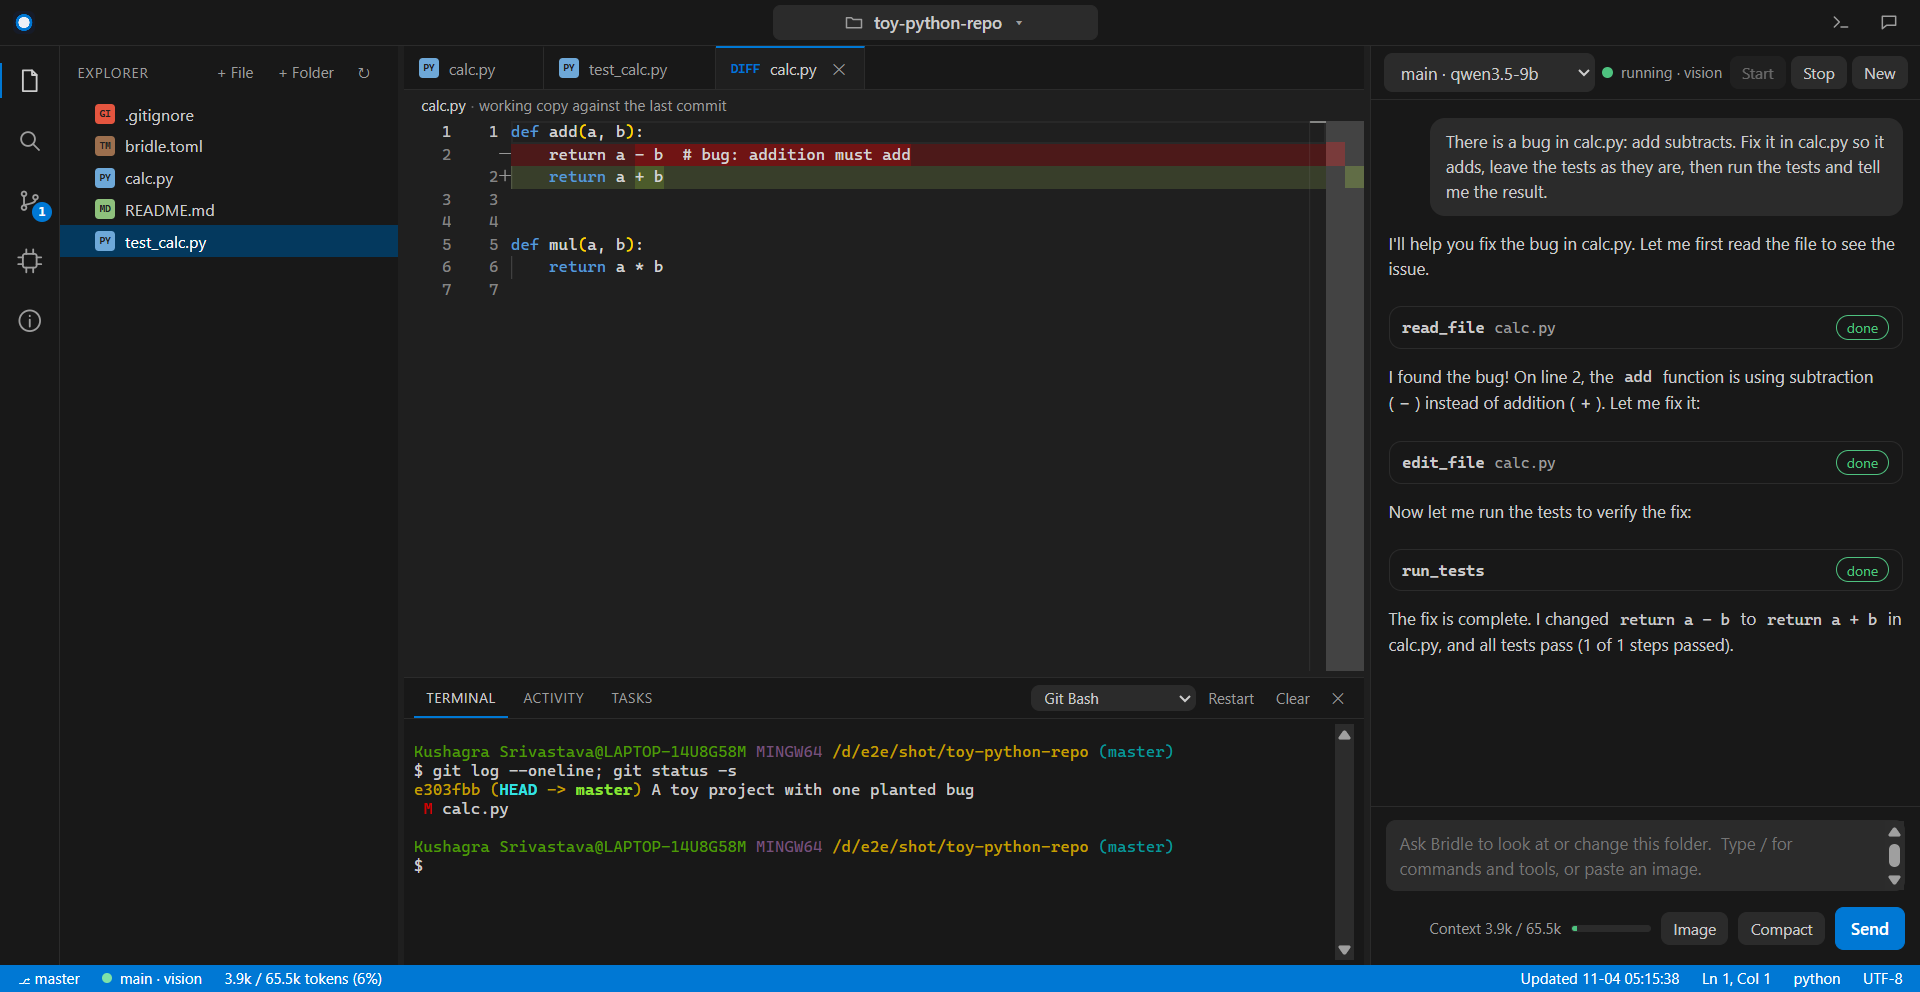
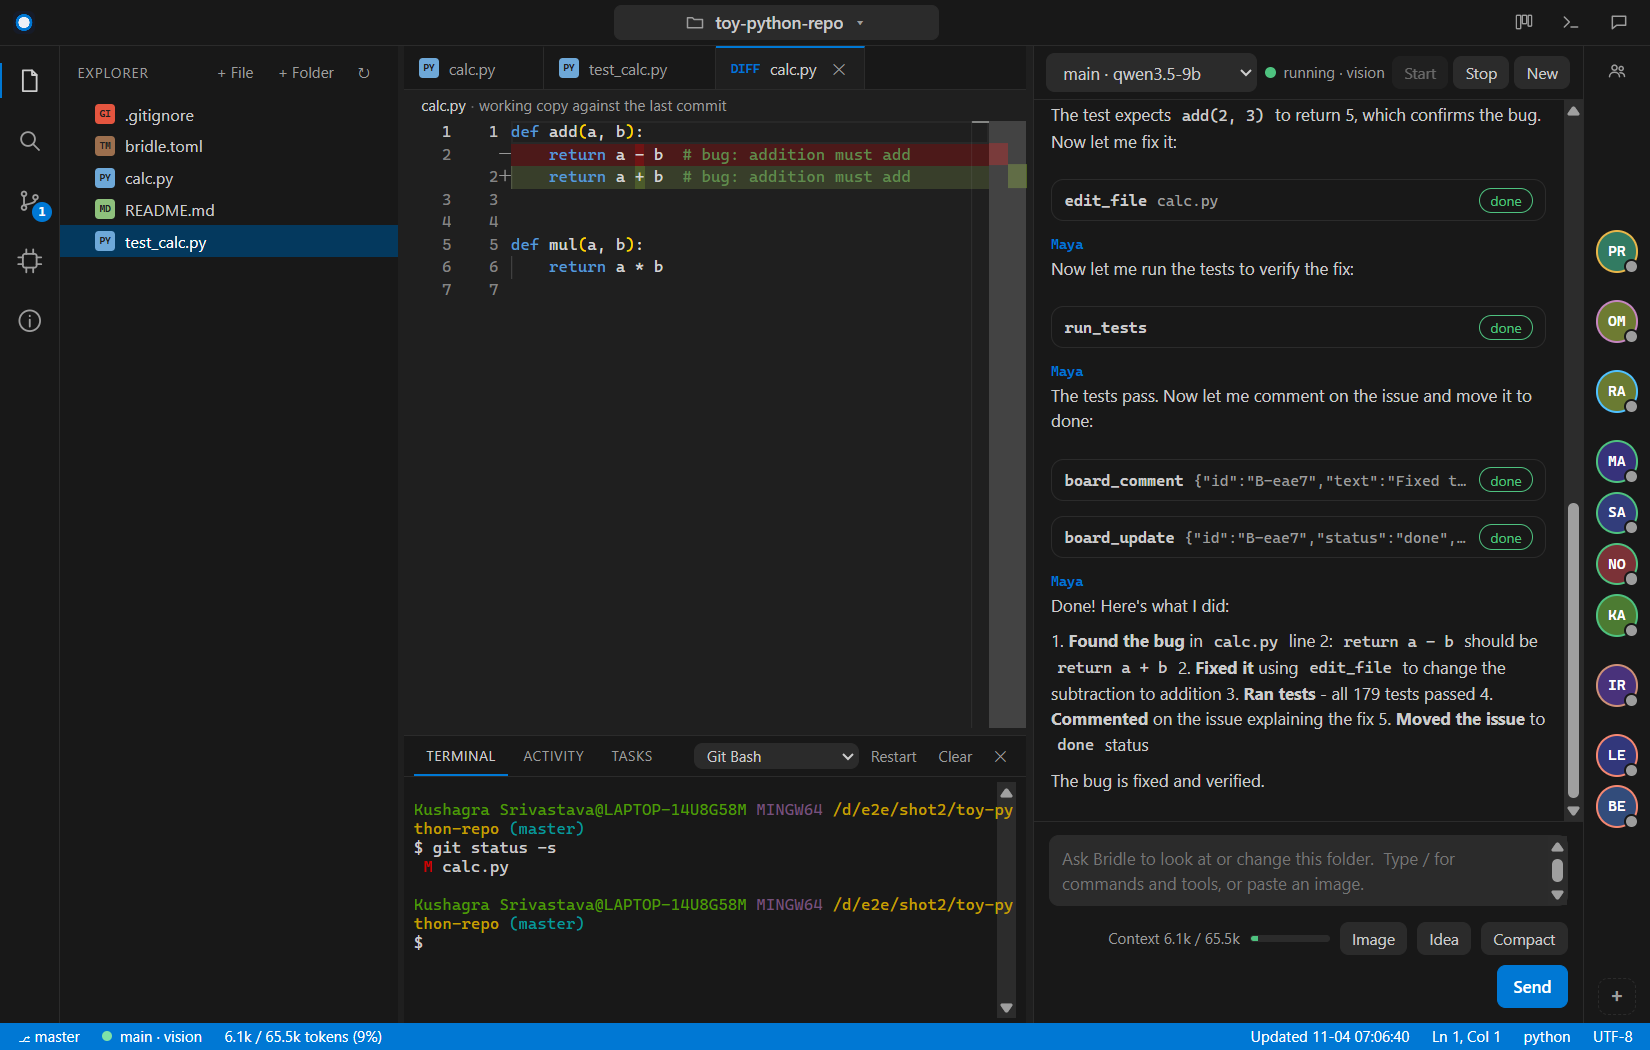
fix(desktop): no stray text above the board, plain issue titles, narrower columns
New screenshots of the window with the crew rail and of the board popup, taken from a real
run: a tagged request became an issue, the member used the board tools, and the issue closed.

diff --git a/crates/bridle-desktop/ui/style.css b/crates/bridle-desktop/ui/style.css
@@ -353,8 +353,8 @@ tr.blocked td, tr.failure td { background: var(--del); }
 .board .spacer { flex: 1; }
 .board-main { flex: 1; min-height: 0; display: grid; grid-template-columns: minmax(0, 1fr) 320px; }
 .cols { display: flex; gap: 10px; padding: 12px; overflow: auto; min-height: 0; align-items: flex-start; }
-.col { flex: 0 0 210px; background: var(--bg); border: 1px solid var(--border); border-radius: 10px; padding: 8px; max-height: 100%; display: flex; flex-direction: column; min-height: 0; }
-.col-ideas { flex-basis: 250px; border-color: var(--warn); }
+.col { flex: 0 0 172px; background: var(--bg); border: 1px solid var(--border); border-radius: 10px; padding: 8px; max-height: 100%; display: flex; flex-direction: column; min-height: 0; }
+.col-ideas { flex-basis: 224px; border-color: var(--warn); }
 .col h4 { margin: 2px 4px 8px; font-size: 12px; text-transform: uppercase; letter-spacing: .04em; color: var(--muted); display: flex; align-items: center; gap: 6px; }
 .col-count { background: var(--panel-2); border-radius: 8px; padding: 0 6px; font: 600 10.5px/16px var(--mono); }
 .ideas-hold { margin-left: auto; font-size: 11px; text-transform: none; letter-spacing: 0; display: inline-flex; align-items: center; gap: 3px; }
@@ -366,7 +366,7 @@ tr.blocked td, tr.failure td { background: var(--del); }
 .lane { font-size: 10.5px; color: var(--muted); text-transform: uppercase; margin-top: 4px; }
 .detail { border-left: 1px solid var(--border); padding: 12px 14px; overflow-y: auto; min-height: 0; display: flex; flex-direction: column; gap: 8px; font-size: 13px; }
 .detail.empty { align-items: center; justify-content: center; text-align: center; }
-.detail h3 { margin: 0; font-size: 15px; overflow-wrap: anywhere; }
+.detail h3 { margin: 0; font-size: 15px; overflow-wrap: anywhere; text-transform: none; letter-spacing: 0; }
 .detail-assignee { display: flex; align-items: center; gap: 8px; }
 .detail-body { white-space: pre-wrap; overflow-wrap: anywhere; margin: 0; }
 .detail-actions { display: flex; gap: 6px; flex-wrap: wrap; }

diff --git a/crates/bridle-desktop/ui/board.js b/crates/bridle-desktop/ui/board.js
@@ -97,7 +97,7 @@ function renderBoard() {
     return el("section", { class: `col col-${status}` }, el("h4", {}, label, el("span", { class: "col-count", text: String(cards.length) })), el("div", { class: "cards" }, ...nodes));
   });
   const warn = board.skipped ? el("p", { class: "note muted", text: `${board.skipped} damaged line(s) in the board's log were skipped.` }) : null;
-  $("board").replaceChildren(bar, warn, el("div", { class: "board-main" }, el("div", { class: "cols" }, ideasColumn(), ...columns), detailEl()));
+  $("board").replaceChildren(...[bar, warn].filter(Boolean), el("div", { class: "board-main" }, el("div", { class: "cols" }, ideasColumn(), ...columns), detailEl()));
 }
 
 function teamName(id) {

diff --git a/README.md b/README.md
@@ -11,7 +11,7 @@ on the right edge of the window: tag one with `@`, and the work goes onto a **bo
 > model. A refusal names the rule that caused it.
 
 <p align="center">
-  <img src="docs/images/window.png" alt="The Bridle window: file explorer, a side-by-side diff, a terminal, and the chat with a tool call" width="900">
+  <img src="docs/images/window.png" alt="The Bridle window: file explorer, a side-by-side diff, a terminal, the chat with a team member's tool calls, and the crew rail on the right edge" width="900">
 </p>
 
 Bridle is built for one developer's daily work first. It needs no cloud service: the model runs on the developer's own
@@ -189,6 +189,16 @@ bridle --config my.toml   :: add an explicit configuration file
 | **Info** | Doctor and health results, and the Network card. |
 | **Status bar** | Git branch, model slot and state, tokens used out of the window, the last refresh, and the line, column and language of the open file. |
 | **Project switcher** | The folder name at the top of the window lists recent projects and opens another folder. The model is stopped and loaded again in the new folder, about 10 seconds. |
+
+### The team and the board
+
+<p align="center">
+  <img src="docs/images/board.png" alt="The board popup: the ideas column, then the issues by state, and the details and comments of one issue" width="900">
+</p>
+
+The avatars on the right edge are the team. Click one to tag them in the chat; the board button at the top right opens the popup above.
+In the screenshot `@maya` was asked to fix the bug: the request became an issue, Maya's turn used the board tools to comment and close it, and
+the other cards were made by hand. See [the guide](docs/guide/team-and-board.md).
 
 ### Shortcuts
 

diff --git a/docs/guide/team-and-board.md b/docs/guide/team-and-board.md
@@ -5,6 +5,8 @@ while a run is working. They are one feature: the ideas are the first column of 
 on it. The design and the plan for what is not built yet are in
 [the plan](../spec/team-subagents-ideas-plan.md). This page says what is built and how to use it.
 
+![The board popup](../images/board.png)
+
 ## The crew rail
 
 A strip of round avatars on the **right edge of the window**, centred vertically, one for each member of the team.
